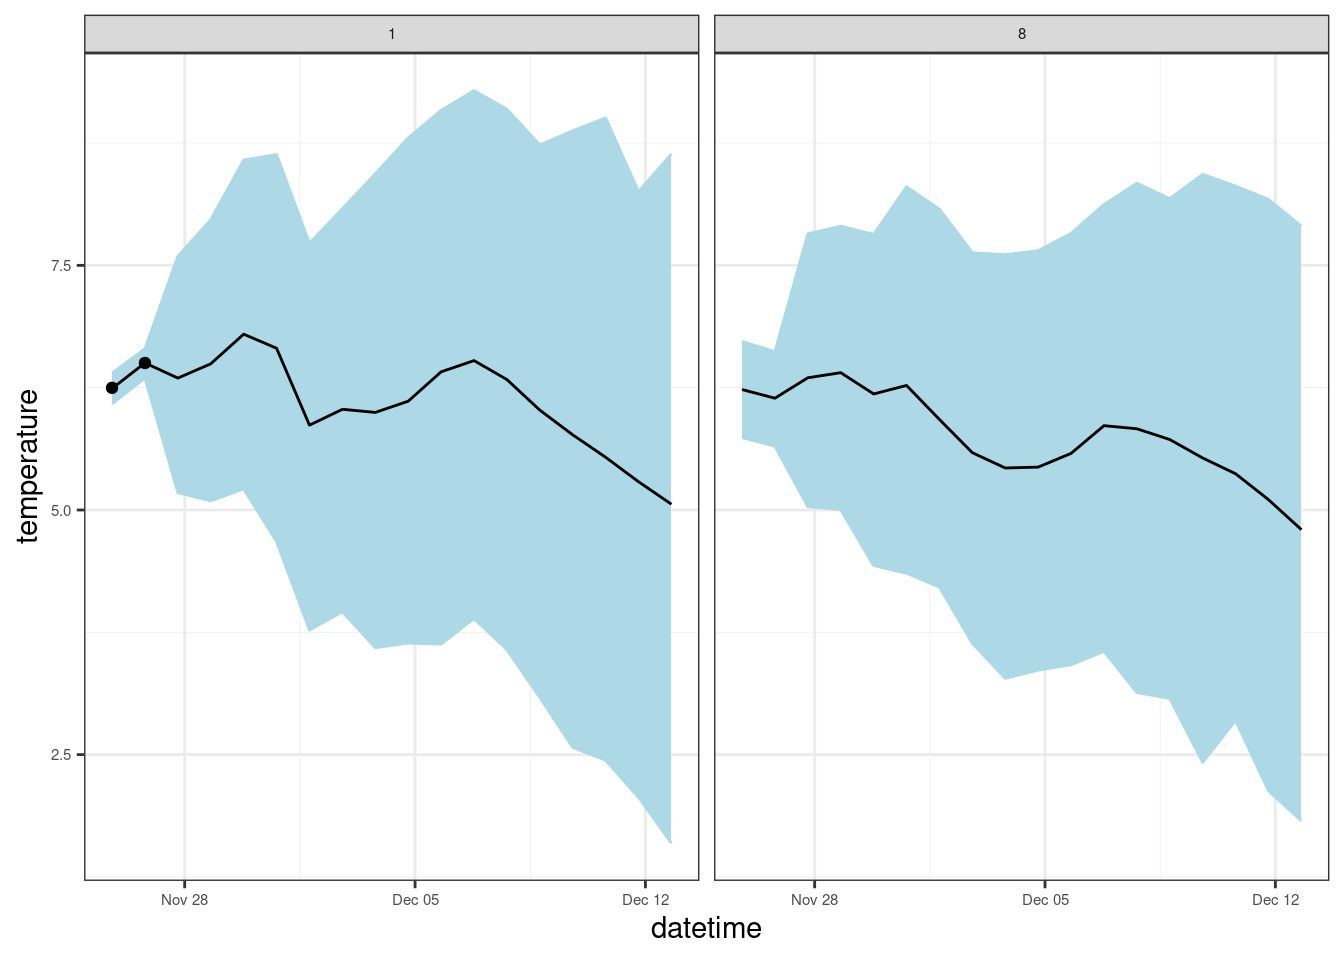
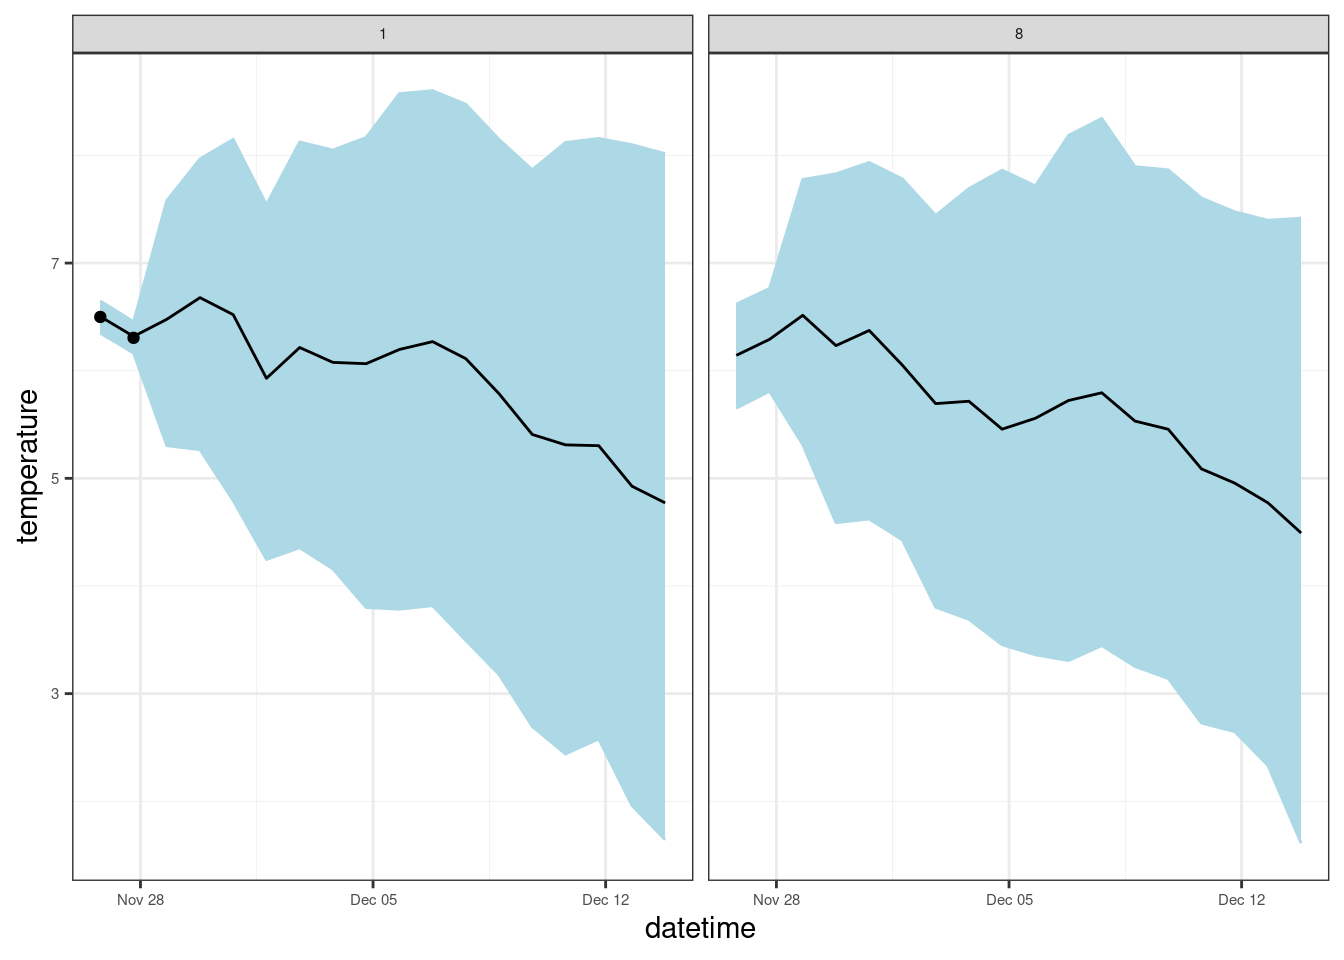
Re-build site

diff --git a/docs/index.html b/docs/index.html
@@ -158,15 +158,15 @@ background-size: cover;
 
 
 <p>Welcome to the Forecasting Lake and Reservoir Ecosystems (FLARE) dashboard!</p>
-<p>This page was last updated on 2022-11-27 07:25:48</p>
+<p>This page was last updated on 2022-11-28 07:22:42</p>
 <p>This site provides daily updates to visualize recent forecasts generated across the U.S.. This site is generated using <a href="https://quarto.org">quarto</a> and should be simple to customize for users familiar with RMarkdown. It is rendered daily using GitHub Actions.</p>
 <section id="flare-sites" class="level3">
 <h3 class="anchored" data-anchor-id="flare-sites">FLARE sites</h3>
 <div class="cell" data-fig.showtext="false">
 <div class="cell-output-display">
 
-<div id="htmlwidget-4d5d6de145756caffa79" style="width:100%;height:650px;" class="leaflet html-widget"></div>
-<script type="application/json" data-for="htmlwidget-4d5d6de145756caffa79">{"x":{"options":{"crs":{"crsClass":"L.CRS.EPSG3857","code":null,"proj4def":null,"projectedBounds":null,"options":{}}},"calls":[{"method":"createMapPane","args":["tmap401",401]},{"method":"addProviderTiles","args":["Esri.WorldGrayCanvas",null,"Esri.WorldGrayCanvas",{"minZoom":0,"maxZoom":18,"tileSize":256,"subdomains":"abc","errorTileUrl":"","tms":false,"noWrap":false,"zoomOffset":0,"zoomReverse":false,"opacity":1,"zIndex":1,"detectRetina":false,"pane":"tilePane"}]},{"method":"addProviderTiles","args":["OpenStreetMap",null,"OpenStreetMap",{"minZoom":0,"maxZoom":18,"tileSize":256,"subdomains":"abc","errorTileUrl":"","tms":false,"noWrap":false,"zoomOffset":0,"zoomReverse":false,"opacity":1,"zIndex":1,"detectRetina":false,"pane":"tilePane"}]},{"method":"addProviderTiles","args":["Esri.WorldTopoMap",null,"Esri.WorldTopoMap",{"minZoom":0,"maxZoom":18,"tileSize":256,"subdomains":"abc","errorTileUrl":"","tms":false,"noWrap":false,"zoomOffset":0,"zoomReverse":false,"opacity":1,"zIndex":1,"detectRetina":false,"pane":"tilePane"}]},{"method":"addCircles","args":[[37.2031448703912,39.069178110127,43.6162429869607,36.6451603887008,27.6929309375021,47.7441516171564,47.3852149383735,42.3016413482522,47.6622391972705,27.3858518802104,-35.2685241644339],[-81.0652222304142,-77.9878477000085,-71.4734668028161,-80.1963577871006,-81.5067881477441,-90.2727040644553,-89.7608395769193,-98.7364035392256,-100.745824131861,-80.683248449941,137.642523161483],[206172.540166362,206172.540166362,206172.540166362,206172.540166362,206172.540166362,206172.540166362,206172.540166362,206172.540166362,206172.540166362,206172.540166362,206172.540166362],["Falling.Creek","Beaver.Dam","Lake.Sunapee","Carvins.Cove.Reservoir","Barco.Lake","Crampton.Lake","Little.Rock.Lake","Prairie.Lake","Prairie.Pothole","Suggs.Lake","Lake.Alexandrina"],"neon",{"interactive":true,"className":"","pane":"tmap401","stroke":true,"color":"#666666","weight":1,"opacity":0.5,"fill":true,"fillColor":["#FB8072","#FB8072","#8DD3C7","#FB8072","#FFFFB3","#FFFFB3","#FFFFB3","#FFFFB3","#FFFFB3","#FFFFB3","#BEBADA"],"fillOpacity":[1,1,1,1,1,1,1,1,1,1,1]},["<style> div.leaflet-popup-content {width:auto !important;overflow-y:auto; overflow-x:hidden;}<\/style><div style=\"max-height:25em;padding-right:0px;\"><table>\n\t\t\t   <thead><tr><th colspan=\"2\"><b>Falling Creek<\/b><\/th><\/thead><\/tr><tr><td style=\"color: #888888;\"><nobr>site_id<\/nobr><\/td><td align=\"right\"><nobr>Falling Creek<\/nobr><\/td><\/tr><\/table><\/div>","<style> div.leaflet-popup-content {width:auto !important;overflow-y:auto; overflow-x:hidden;}<\/style><div style=\"max-height:25em;padding-right:0px;\"><table>\n\t\t\t   <thead><tr><th colspan=\"2\"><b>Beaver Dam<\/b><\/th><\/thead><\/tr><tr><td style=\"color: #888888;\"><nobr>site_id<\/nobr><\/td><td align=\"right\"><nobr>Beaver Dam<\/nobr><\/td><\/tr><\/table><\/div>","<style> div.leaflet-popup-content {width:auto !important;overflow-y:auto; overflow-x:hidden;}<\/style><div style=\"max-height:25em;padding-right:0px;\"><table>\n\t\t\t   <thead><tr><th colspan=\"2\"><b>Lake Sunapee<\/b><\/th><\/thead><\/tr><tr><td style=\"color: #888888;\"><nobr>site_id<\/nobr><\/td><td align=\"right\"><nobr>Lake Sunapee<\/nobr><\/td><\/tr><\/table><\/div>","<style> div.leaflet-popup-content {width:auto !important;overflow-y:auto; overflow-x:hidden;}<\/style><div style=\"max-height:25em;padding-right:0px;\"><table>\n\t\t\t   <thead><tr><th colspan=\"2\"><b>Carvins Cove Reservoir<\/b><\/th><\/thead><\/tr><tr><td style=\"color: #888888;\"><nobr>site_id<\/nobr><\/td><td align=\"right\"><nobr>Carvins Cove Reservoir<\/nobr><\/td><\/tr><\/table><\/div>","<style> div.leaflet-popup-content {width:auto !important;overflow-y:auto; overflow-x:hidden;}<\/style><div style=\"max-height:25em;padding-right:0px;\"><table>\n\t\t\t   <thead><tr><th colspan=\"2\"><b>Barco Lake<\/b><\/th><\/thead><\/tr><tr><td style=\"color: #888888;\"><nobr>site_id<\/nobr><\/td><td align=\"right\"><nobr>Barco Lake<\/nobr><\/td><\/tr><\/table><\/div>","<style> div.leaflet-popup-content {width:auto !important;overflow-y:auto; overflow-x:hidden;}<\/style><div style=\"max-height:25em;padding-right:0px;\"><table>\n\t\t\t   <thead><tr><th colspan=\"2\"><b>Crampton Lake<\/b><\/th><\/thead><\/tr><tr><td style=\"color: #888888;\"><nobr>site_id<\/nobr><\/td><td align=\"right\"><nobr>Crampton Lake<\/nobr><\/td><\/tr><\/table><\/div>","<style> div.leaflet-popup-content {width:auto !important;overflow-y:auto; overflow-x:hidden;}<\/style><div style=\"max-height:25em;padding-right:0px;\"><table>\n\t\t\t   <thead><tr><th colspan=\"2\"><b>Little Rock Lake<\/b><\/th><\/thead><\/tr><tr><td style=\"color: #888888;\"><nobr>site_id<\/nobr><\/td><td align=\"right\"><nobr>Little Rock Lake<\/nobr><\/td><\/tr><\/table><\/div>","<style> div.leaflet-popup-content {width:auto !important;overflow-y:auto; overflow-x:hidden;}<\/style><div style=\"max-height:25em;padding-right:0px;\"><table>\n\t\t\t   <thead><tr><th colspan=\"2\"><b>Prairie Lake<\/b><\/th><\/thead><\/tr><tr><td style=\"color: #888888;\"><nobr>site_id<\/nobr><\/td><td align=\"right\"><nobr>Prairie Lake<\/nobr><\/td><\/tr><\/table><\/div>","<style> div.leaflet-popup-content {width:auto !important;overflow-y:auto; overflow-x:hidden;}<\/style><div style=\"max-height:25em;padding-right:0px;\"><table>\n\t\t\t   <thead><tr><th colspan=\"2\"><b>Prairie Pothole<\/b><\/th><\/thead><\/tr><tr><td style=\"color: #888888;\"><nobr>site_id<\/nobr><\/td><td align=\"right\"><nobr>Prairie Pothole<\/nobr><\/td><\/tr><\/table><\/div>","<style> div.leaflet-popup-content {width:auto !important;overflow-y:auto; overflow-x:hidden;}<\/style><div style=\"max-height:25em;padding-right:0px;\"><table>\n\t\t\t   <thead><tr><th colspan=\"2\"><b>Suggs Lake<\/b><\/th><\/thead><\/tr><tr><td style=\"color: #888888;\"><nobr>site_id<\/nobr><\/td><td align=\"right\"><nobr>Suggs Lake<\/nobr><\/td><\/tr><\/table><\/div>","<style> div.leaflet-popup-content {width:auto !important;overflow-y:auto; overflow-x:hidden;}<\/style><div style=\"max-height:25em;padding-right:0px;\"><table>\n\t\t\t   <thead><tr><th colspan=\"2\"><b>Lake Alexandrina<\/b><\/th><\/thead><\/tr><tr><td style=\"color: #888888;\"><nobr>site_id<\/nobr><\/td><td align=\"right\"><nobr>Lake Alexandrina<\/nobr><\/td><\/tr><\/table><\/div>"],null,["Falling Creek","Beaver Dam","Lake Sunapee","Carvins Cove Reservoir","Barco Lake","Crampton Lake","Little Rock Lake","Prairie Lake","Prairie Pothole","Suggs Lake","Lake Alexandrina"],{"interactive":false,"permanent":false,"direction":"auto","opacity":1,"offset":[0,0],"textsize":"10px","textOnly":false,"className":"","sticky":true},null,null]},{"method":"addLegend","args":[{"colors":["#8DD3C7","#FFFFB3","#BEBADA","#FB8072"],"labels":["LSPA","NEON","UWA","WVWA"],"na_color":null,"na_label":"NA","opacity":1,"position":"topright","type":"unknown","title":"Partner","extra":null,"layerId":"legend401","className":"info legend neon","group":"neon"}]},{"method":"addLayersControl","args":[["Esri.WorldGrayCanvas","OpenStreetMap","Esri.WorldTopoMap"],"neon",{"collapsed":true,"autoZIndex":true,"position":"topleft"}]}],"limits":{"lat":[-35.2685241644339,47.7441516171564],"lng":[-100.745824131861,137.642523161483]},"fitBounds":[-35.436808,-74,48,139.168997,[]]},"evals":[],"jsHooks":[]}</script>
+<div id="htmlwidget-63def1cd5838476f63fb" style="width:100%;height:650px;" class="leaflet html-widget"></div>
+<script type="application/json" data-for="htmlwidget-63def1cd5838476f63fb">{"x":{"options":{"crs":{"crsClass":"L.CRS.EPSG3857","code":null,"proj4def":null,"projectedBounds":null,"options":{}}},"calls":[{"method":"createMapPane","args":["tmap401",401]},{"method":"addProviderTiles","args":["Esri.WorldGrayCanvas",null,"Esri.WorldGrayCanvas",{"minZoom":0,"maxZoom":18,"tileSize":256,"subdomains":"abc","errorTileUrl":"","tms":false,"noWrap":false,"zoomOffset":0,"zoomReverse":false,"opacity":1,"zIndex":1,"detectRetina":false,"pane":"tilePane"}]},{"method":"addProviderTiles","args":["OpenStreetMap",null,"OpenStreetMap",{"minZoom":0,"maxZoom":18,"tileSize":256,"subdomains":"abc","errorTileUrl":"","tms":false,"noWrap":false,"zoomOffset":0,"zoomReverse":false,"opacity":1,"zIndex":1,"detectRetina":false,"pane":"tilePane"}]},{"method":"addProviderTiles","args":["Esri.WorldTopoMap",null,"Esri.WorldTopoMap",{"minZoom":0,"maxZoom":18,"tileSize":256,"subdomains":"abc","errorTileUrl":"","tms":false,"noWrap":false,"zoomOffset":0,"zoomReverse":false,"opacity":1,"zIndex":1,"detectRetina":false,"pane":"tilePane"}]},{"method":"addCircles","args":[[36.7844114061088,37.6635965171619,43.9066902708153,35.0195968898079,31.7168425857225,44.2595413892778,46.9811335801907,48.7357220988727,48.3383190032058,31.5174265790204,-35.8228460313234],[-79.127080854061,-81.8271014712021,-72.9326243179281,-80.2185653118084,-82.1711863621007,-90.7793338521431,-91.2250862719393,-97.615418991158,-99.4818959119374,-82.7565754496066,138.492164102327],[206172.540166362,206172.540166362,206172.540166362,206172.540166362,206172.540166362,206172.540166362,206172.540166362,206172.540166362,206172.540166362,206172.540166362,206172.540166362],["Falling.Creek","Beaver.Dam","Lake.Sunapee","Carvins.Cove.Reservoir","Barco.Lake","Crampton.Lake","Little.Rock.Lake","Prairie.Lake","Prairie.Pothole","Suggs.Lake","Lake.Alexandrina"],"neon",{"interactive":true,"className":"","pane":"tmap401","stroke":true,"color":"#666666","weight":1,"opacity":0.5,"fill":true,"fillColor":["#FB8072","#FB8072","#8DD3C7","#FB8072","#FFFFB3","#FFFFB3","#FFFFB3","#FFFFB3","#FFFFB3","#FFFFB3","#BEBADA"],"fillOpacity":[1,1,1,1,1,1,1,1,1,1,1]},["<style> div.leaflet-popup-content {width:auto !important;overflow-y:auto; overflow-x:hidden;}<\/style><div style=\"max-height:25em;padding-right:0px;\"><table>\n\t\t\t   <thead><tr><th colspan=\"2\"><b>Falling Creek<\/b><\/th><\/thead><\/tr><tr><td style=\"color: #888888;\"><nobr>site_id<\/nobr><\/td><td align=\"right\"><nobr>Falling Creek<\/nobr><\/td><\/tr><\/table><\/div>","<style> div.leaflet-popup-content {width:auto !important;overflow-y:auto; overflow-x:hidden;}<\/style><div style=\"max-height:25em;padding-right:0px;\"><table>\n\t\t\t   <thead><tr><th colspan=\"2\"><b>Beaver Dam<\/b><\/th><\/thead><\/tr><tr><td style=\"color: #888888;\"><nobr>site_id<\/nobr><\/td><td align=\"right\"><nobr>Beaver Dam<\/nobr><\/td><\/tr><\/table><\/div>","<style> div.leaflet-popup-content {width:auto !important;overflow-y:auto; overflow-x:hidden;}<\/style><div style=\"max-height:25em;padding-right:0px;\"><table>\n\t\t\t   <thead><tr><th colspan=\"2\"><b>Lake Sunapee<\/b><\/th><\/thead><\/tr><tr><td style=\"color: #888888;\"><nobr>site_id<\/nobr><\/td><td align=\"right\"><nobr>Lake Sunapee<\/nobr><\/td><\/tr><\/table><\/div>","<style> div.leaflet-popup-content {width:auto !important;overflow-y:auto; overflow-x:hidden;}<\/style><div style=\"max-height:25em;padding-right:0px;\"><table>\n\t\t\t   <thead><tr><th colspan=\"2\"><b>Carvins Cove Reservoir<\/b><\/th><\/thead><\/tr><tr><td style=\"color: #888888;\"><nobr>site_id<\/nobr><\/td><td align=\"right\"><nobr>Carvins Cove Reservoir<\/nobr><\/td><\/tr><\/table><\/div>","<style> div.leaflet-popup-content {width:auto !important;overflow-y:auto; overflow-x:hidden;}<\/style><div style=\"max-height:25em;padding-right:0px;\"><table>\n\t\t\t   <thead><tr><th colspan=\"2\"><b>Barco Lake<\/b><\/th><\/thead><\/tr><tr><td style=\"color: #888888;\"><nobr>site_id<\/nobr><\/td><td align=\"right\"><nobr>Barco Lake<\/nobr><\/td><\/tr><\/table><\/div>","<style> div.leaflet-popup-content {width:auto !important;overflow-y:auto; overflow-x:hidden;}<\/style><div style=\"max-height:25em;padding-right:0px;\"><table>\n\t\t\t   <thead><tr><th colspan=\"2\"><b>Crampton Lake<\/b><\/th><\/thead><\/tr><tr><td style=\"color: #888888;\"><nobr>site_id<\/nobr><\/td><td align=\"right\"><nobr>Crampton Lake<\/nobr><\/td><\/tr><\/table><\/div>","<style> div.leaflet-popup-content {width:auto !important;overflow-y:auto; overflow-x:hidden;}<\/style><div style=\"max-height:25em;padding-right:0px;\"><table>\n\t\t\t   <thead><tr><th colspan=\"2\"><b>Little Rock Lake<\/b><\/th><\/thead><\/tr><tr><td style=\"color: #888888;\"><nobr>site_id<\/nobr><\/td><td align=\"right\"><nobr>Little Rock Lake<\/nobr><\/td><\/tr><\/table><\/div>","<style> div.leaflet-popup-content {width:auto !important;overflow-y:auto; overflow-x:hidden;}<\/style><div style=\"max-height:25em;padding-right:0px;\"><table>\n\t\t\t   <thead><tr><th colspan=\"2\"><b>Prairie Lake<\/b><\/th><\/thead><\/tr><tr><td style=\"color: #888888;\"><nobr>site_id<\/nobr><\/td><td align=\"right\"><nobr>Prairie Lake<\/nobr><\/td><\/tr><\/table><\/div>","<style> div.leaflet-popup-content {width:auto !important;overflow-y:auto; overflow-x:hidden;}<\/style><div style=\"max-height:25em;padding-right:0px;\"><table>\n\t\t\t   <thead><tr><th colspan=\"2\"><b>Prairie Pothole<\/b><\/th><\/thead><\/tr><tr><td style=\"color: #888888;\"><nobr>site_id<\/nobr><\/td><td align=\"right\"><nobr>Prairie Pothole<\/nobr><\/td><\/tr><\/table><\/div>","<style> div.leaflet-popup-content {width:auto !important;overflow-y:auto; overflow-x:hidden;}<\/style><div style=\"max-height:25em;padding-right:0px;\"><table>\n\t\t\t   <thead><tr><th colspan=\"2\"><b>Suggs Lake<\/b><\/th><\/thead><\/tr><tr><td style=\"color: #888888;\"><nobr>site_id<\/nobr><\/td><td align=\"right\"><nobr>Suggs Lake<\/nobr><\/td><\/tr><\/table><\/div>","<style> div.leaflet-popup-content {width:auto !important;overflow-y:auto; overflow-x:hidden;}<\/style><div style=\"max-height:25em;padding-right:0px;\"><table>\n\t\t\t   <thead><tr><th colspan=\"2\"><b>Lake Alexandrina<\/b><\/th><\/thead><\/tr><tr><td style=\"color: #888888;\"><nobr>site_id<\/nobr><\/td><td align=\"right\"><nobr>Lake Alexandrina<\/nobr><\/td><\/tr><\/table><\/div>"],null,["Falling Creek","Beaver Dam","Lake Sunapee","Carvins Cove Reservoir","Barco Lake","Crampton Lake","Little Rock Lake","Prairie Lake","Prairie Pothole","Suggs Lake","Lake Alexandrina"],{"interactive":false,"permanent":false,"direction":"auto","opacity":1,"offset":[0,0],"textsize":"10px","textOnly":false,"className":"","sticky":true},null,null]},{"method":"addLegend","args":[{"colors":["#8DD3C7","#FFFFB3","#BEBADA","#FB8072"],"labels":["LSPA","NEON","UWA","WVWA"],"na_color":null,"na_label":"NA","opacity":1,"position":"topright","type":"unknown","title":"Partner","extra":null,"layerId":"legend401","className":"info legend neon","group":"neon"}]},{"method":"addLayersControl","args":[["Esri.WorldGrayCanvas","OpenStreetMap","Esri.WorldTopoMap"],"neon",{"collapsed":true,"autoZIndex":true,"position":"topleft"}]}],"limits":{"lat":[-35.8228460313234,48.7357220988727],"lng":[-99.4818959119374,138.492164102327]},"fitBounds":[-35.436808,-74,48,139.168997,[]]},"evals":[],"jsHooks":[]}</script>
 </div>
 </div>
 <p>This material is based upon work supported by the National Science Foundation as part of awards CNS-1737424, DBI-1933102, and DBI-1933016. Any opinions, findings, and conclusions or recommendations expressed in this material are those of the author(s) and do not necessarily reflect the views of the National Science Foundation.</p>

diff --git a/docs/bvre.html b/docs/bvre.html
@@ -151,8 +151,8 @@ background-size: cover;
 </div>
 <section id="most-recent-forecasts" class="level2">
 <h2 class="anchored" data-anchor-id="most-recent-forecasts">Most recent forecasts</h2>
-<p>This page was last updated on 2022-11-27 07:25:21</p>
-<p>The most recent forecast is from 2022-11-26 19:00:00.</p>
+<p>This page was last updated on 2022-11-28 07:22:25</p>
+<p>The most recent forecast is from 2022-11-27 19:00:00.</p>
 <div class="cell" data-fig.showtext="false">
 <div class="cell-output-display">
 <p><img src="bvre_files/figure-html/unnamed-chunk-3-1.png" class="img-fluid" width="672"></p>

diff --git a/docs/fcre.html b/docs/fcre.html
@@ -188,7 +188,7 @@ background-size: cover;
 <div class="cell" data-fig.showtext="false">
 
 </div>
-<p>The most recent forecast is from 2022-11-26 19:00:00 (Eastern U.S. time).</p>
+<p>The most recent forecast is from 2022-11-27 19:00:00 (Eastern U.S. time).</p>
 <div class="cell" data-fig.showtext="false">
 <div class="cell-output-display">
 <p><img src="fcre_files/figure-html/unnamed-chunk-10-1.png" class="img-fluid" width="672"></p>

diff --git a/docs/alex.html b/docs/alex.html
@@ -158,7 +158,7 @@ background-size: cover;
 <div class="cell" data-fig.showtext="false">
 
 </div>
-<p>The most recent forecast is from 2022-11-25 19:00:00.</p>
+<p>The most recent forecast is from 2022-11-26 19:00:00.</p>
 <div class="cell" data-fig.showtext="false">
 <div class="cell-output-display">
 <p><img src="alex_files/figure-html/unnamed-chunk-3-1.png" class="img-fluid" width="672"></p>

diff --git a/docs/neon.html b/docs/neon.html
@@ -159,7 +159,7 @@ background-size: cover;
 <div class="cell" data-fig.showtext="false">
 
 </div>
-<p>The most recent forecast is from 2022-11-26 19:00:00.</p>
+<p>The most recent forecast is from 2022-11-27 19:00:00.</p>
 <div class="cell" data-fig.showtext="false">
 <div class="cell-output-display">
 <p><img src="neon_files/figure-html/unnamed-chunk-3-1.png" class="img-fluid" width="672"></p>

diff --git a/docs/sunp.html b/docs/sunp.html
@@ -159,7 +159,7 @@ background-size: cover;
 <div class="cell" data-fig.showtext="false">
 
 </div>
-<p>The most recent forecast is from 2022-11-25 19:00:00.</p>
+<p>The most recent forecast is from 2022-11-26 19:00:00.</p>
 <div class="cell" data-fig.showtext="false">
 <div class="cell-output-display">
 <p><img src="sunp_files/figure-html/unnamed-chunk-3-1.png" class="img-fluid" width="672"></p>
